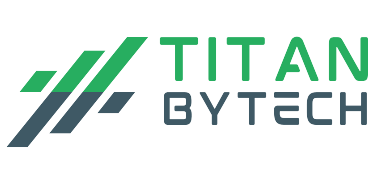
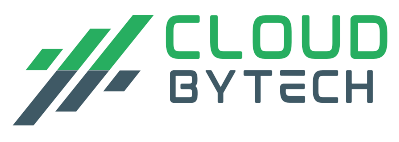
edit name

diff --git a/index.html b/index.html
@@ -13,7 +13,7 @@
     <meta name="description"
         content="Hyber Byte provides top-notch IT solutions including Dedicated Servers, Cloud VPS, Web Design, and App Development. Our expert team delivers reliable, scalable, and innovative technology services to drive your success.">
 
-    <link rel=icon href="assets/img/4w.png" sizes="20x20" type="image/png">
+    <link rel=icon href="assets/img/6w.png" sizes="20x20" type="image/png">
 
     <!-- Stylesheet -->
     <link rel="stylesheet" href="assets/css/bootstrap.min.css">
@@ -118,7 +118,7 @@
                 </div>
                 <div class="col-lg-6 col-md-9 order-lg-first align-self-center">
                     <div class="banner-inner style-white  text-center text-lg-start">
-                        <h4 class="sub-title">Titan Bytech</h4>
+                        <h4 class="sub-title">Cloud Bytech</h4>
                         <h2 class="title">Premium Dedicated Servers and Cloud VPS Solutions</h2>
                         <p class="content">Unparalleled performance and 24/7 support for your hosting needs.</p>
                         <div class="btn-wrap">
@@ -534,7 +534,7 @@
                 </div>
                 <div class="col-lg-6 order-lg-first align-self-center">
                     <div class="section-title px-lg-5 mb-0">
-                        <h5 class="sub-title right-line">Why Choose Titan Bytech ?</h5>
+                        <h5 class="sub-title right-line">Why Choose Cloud Bytech ?</h5>
                         <h2 class="title">Scalable Solutions for Seamless Operations</h2>
                         <p class="content">
                             Our high-performance server solutions ensure rapid scaling and minimal disruption for your
@@ -702,7 +702,7 @@
                 <div class="col-lg-4 col-md-6">
                     <div class="widget widget_about">
                         <!-- <h4 class="widget-title">About company</h4> -->
-                        <a href="index.html"><img src="assets/img/4w.png" alt="img" width="45%"></a>
+                        <a href="index.html"><img src="assets/img/6w.png" alt="img" width="45%"></a>
                         <div class="details">
 
                             <p class="m-3" style="color: lightgrey;">Premium Dedicated Servers and Cloud VPS Solutions
